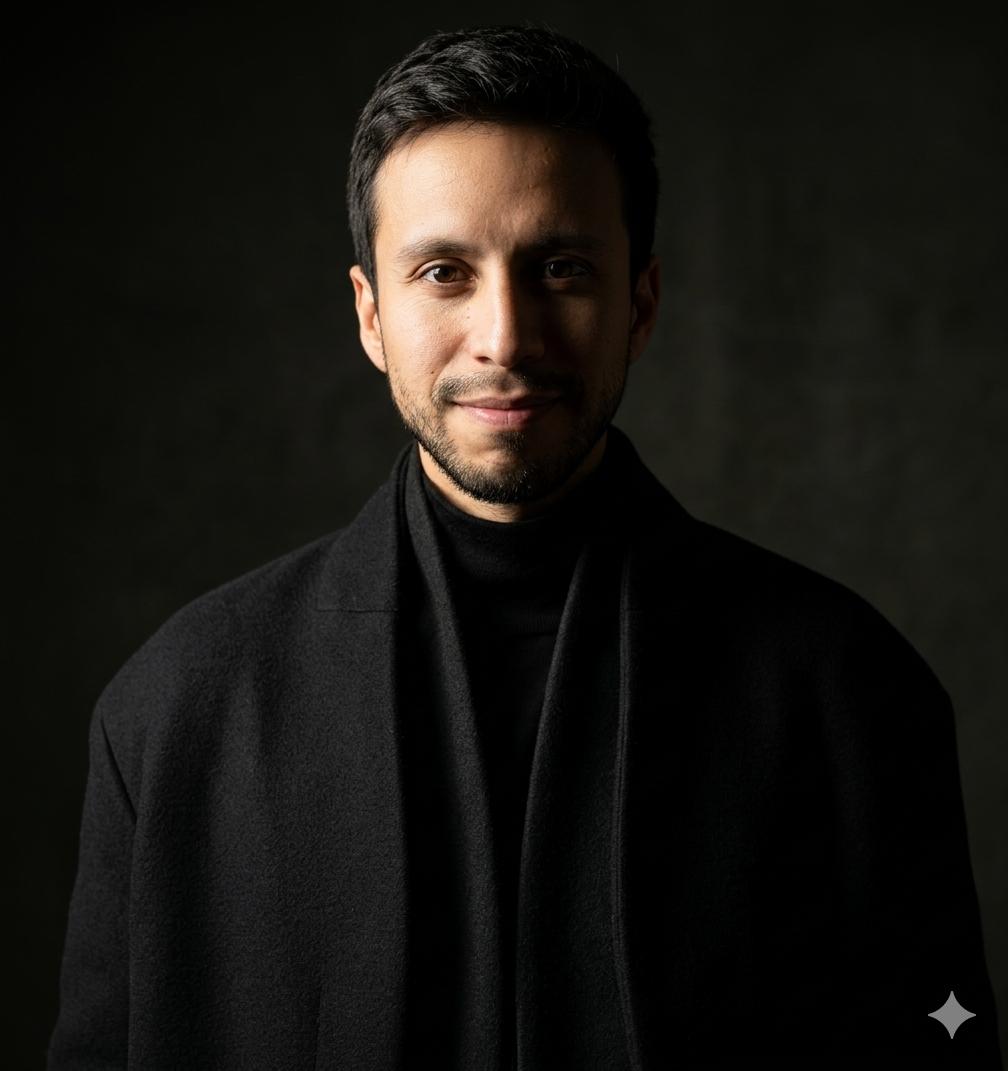
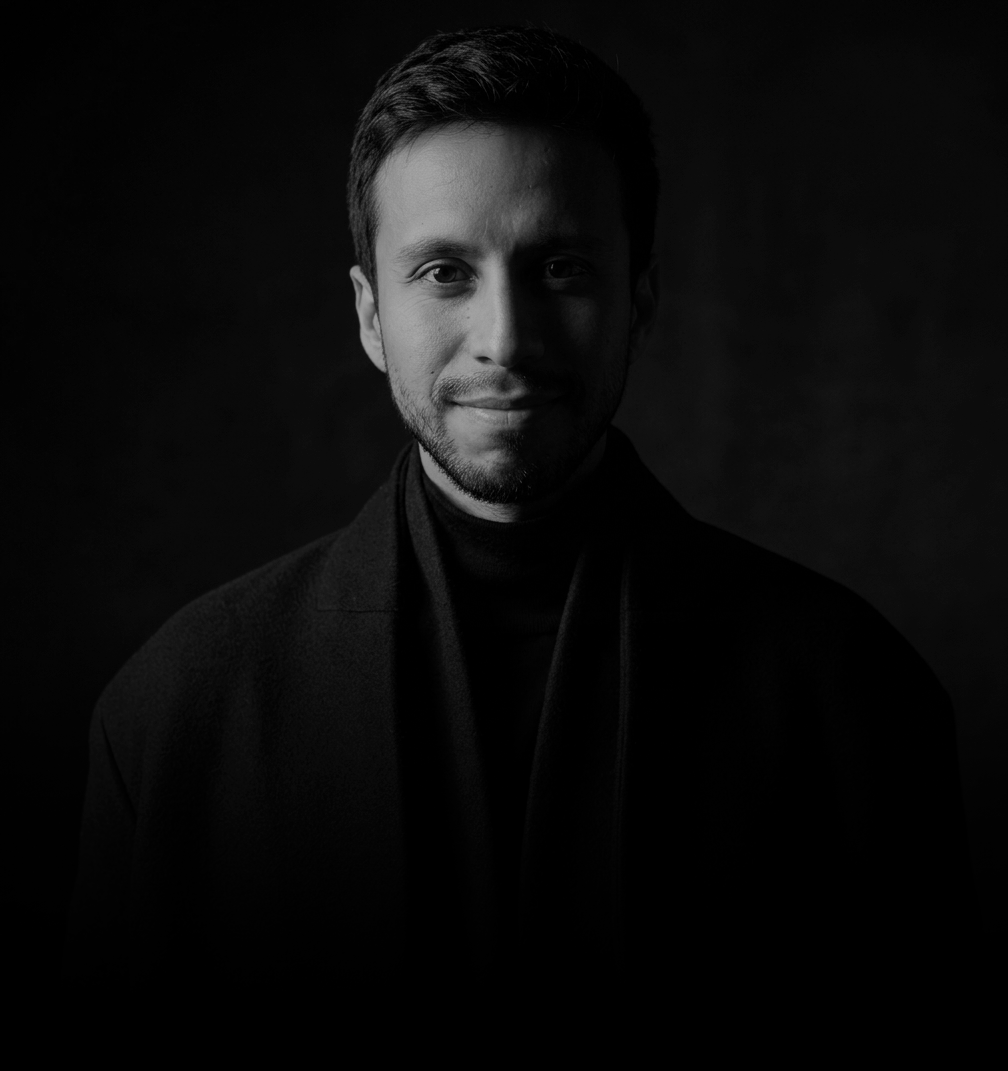
Add hero photo, fix social links, and update graphic assets
- About: add julian.png to hero section (hidden, ready to toggle), with radial mask effect
- SiteHeader: wire LinkedIn and Behance links to correct profile URLs, open in new tab
- SlotCta: add target and rel prop support for anchor tags
- About: fix line-break in bio copy using non-breaking hyphen and non-breaking space
- Graphic assets: update julian.png and wintercircus intro image

diff --git a/src/app/pages/About.tsx b/src/app/pages/About.tsx
@@ -7,6 +7,7 @@ import { SiteHeader } from "../components/SiteHeader";
 import { SplitLines } from "../components/SplitLines";
 import { SiteFooter } from "../components/SiteFooter";
 import { projects } from "../data/projects";
+import julianPhoto from "../../../graphic-assets/about/julian.png";
 import logoGoogle from "../../../graphic-assets/about/logos/google.svg";
 import logoAndroid from "../../../graphic-assets/about/logos/android.svg";
 import logoUber from "../../../graphic-assets/about/logos/uber.svg";
@@ -195,9 +196,23 @@ export default function About() {
       <SiteHeader variant="dynamic" isDarkLogo={false} isDarkText={false} isDarkMenu={false} isDarkLocation={false} onLogoClick={handleLogoClick} />
 
       {/* Name */}
-      <div className="px-4 sm:px-[120px] flex flex-col sm:flex-row sm:gap-[80px] justify-end sm:items-end" style={{ height: 600 }}>
-        <div className="hidden sm:block sm:flex-1" />
-        <div className="sm:flex-1 pb-[40px]">
+      <div className="px-4 sm:px-[120px] flex flex-col sm:flex-row sm:gap-[80px] justify-end sm:items-end relative" style={{ height: 600 }}>
+        <img
+          src={julianPhoto}
+          alt="Julián Patiño"
+          className="absolute object-cover object-top pointer-events-none select-none hidden"
+          style={{
+            top: "40px",
+            left: "50%",
+            transform: "translateX(-50%)",
+            height: "220%",
+            width: "auto",
+            maskImage: "radial-gradient(ellipse 55% 80% at 50% 15%, black 20%, transparent 72%)",
+            WebkitMaskImage: "radial-gradient(ellipse 55% 80% at 50% 15%, black 20%, transparent 72%)",
+          }}
+        />
+        <div className="hidden sm:block sm:flex-1 relative z-10" />
+        <div className="sm:flex-1 pb-[40px] relative z-10">
           <HeroReveal lines={["JULIÁN", "PATIÑO", "OSSA"]} delay={0.1} className="font-['Avantt',sans-serif] font-bold text-[56px] leading-[0.9] text-white uppercase" />
         </div>
       </div>
@@ -268,9 +283,23 @@ export default function About() {
       <SiteHeader variant="dynamic" isDarkLogo={false} isDarkText={false} isDarkMenu={false} isDarkLocation={false} onLogoClick={handleLogoClick} />
 
       {/* Name — 800px hero, vertically centered */}
-      <div className="flex items-center" style={{ height: 600, paddingLeft: 256, paddingRight: 256, gap: "clamp(80px, calc((100vw - 1024px) / (1280 - 1024) * (240 - 80) + 80px), 240px)" }}>
-        <div className="w-[333px]" />
-        <div className="w-[444px]">
+      <div className="flex items-center relative" style={{ height: 600, paddingLeft: 256, paddingRight: 256, gap: "clamp(80px, calc((100vw - 1024px) / (1280 - 1024) * (240 - 80) + 80px), 240px)" }}>
+        <img
+          src={julianPhoto}
+          alt="Julián Patiño"
+          className="absolute object-cover object-top pointer-events-none select-none hidden"
+          style={{
+            top: "40px",
+            left: "50%",
+            transform: "translateX(-50%)",
+            height: "220%",
+            width: "auto",
+            maskImage: "radial-gradient(ellipse 55% 80% at 50% 15%, black 20%, transparent 72%)",
+            WebkitMaskImage: "radial-gradient(ellipse 55% 80% at 50% 15%, black 20%, transparent 72%)",
+          }}
+        />
+        <div className="w-[333px] relative z-10" />
+        <div className="w-[444px] relative z-10">
           <HeroReveal lines={["JULIÁN", "PATIÑO", "OSSA"]} delay={0.1} className="font-['Avantt',sans-serif] font-bold text-[64px] leading-[0.86] text-white uppercase" />
         </div>
       </div>
@@ -289,7 +318,7 @@ export default function About() {
           <div className="flex flex-col gap-[24px] w-[444px] font-['Avantt',sans-serif] text-[#eaeaea] pt-[28px]">
             <HeroReveal lines={["SOFTWARE &", "EXPERIENCE", "DESIGNER"]} delay={0.42} className="font-['Avantt',sans-serif] font-bold text-[40px] leading-[1.0] text-white uppercase" />
             <div className="flex flex-col gap-4 font-normal text-[12px] leading-[1.6] tracking-[-0.12px]">
-              <SplitLines scroller={scrollRef} animationDelay={0} text="Over the course of my career, I’ve worked on a wide range of projects — from early-stage concept exploration to fully designed, ready-to-ship products." />
+              <SplitLines scroller={scrollRef} animationDelay={0} text={"Over the course of my career, I’ve worked on a wide range of projects — from early‑stage concept exploration to fully designed, ready-to-ship products."} />
               <SplitLines scroller={scrollRef} animationDelay={0.9} text="I’ve collaborated with global agencies and startups across UX and product design initiatives, helping shape strategies and build thoughtful, scalable experiences. Throughout these engagements, I’ve been involved across the full product lifecycle, working closely with cross-functional teams from discovery and definition to design and delivery." />
               <SplitLines scroller={scrollRef} animationDelay={2.0} text="These are some key principles I always look for when designing:" />
               <ul ref={bioListRef} className="flex flex-col gap-1">

diff --git a/src/app/components/SlotCta.tsx b/src/app/components/SlotCta.tsx
@@ -6,13 +6,15 @@ interface SlotCtaProps {
   /** Wrapping element — defaults to a plain span */
   as?: "span" | "a";
   href?: string;
+  target?: string;
+  rel?: string;
   className?: string;
   style?: React.CSSProperties;
   onClick?: () => void;
 }
 
 /** Whole-word bottom→top reveal on hover. Reverses smoothly on leave. */
-export function SlotCta({ text, as: Tag = "span", href, className = "", style, onClick }: SlotCtaProps) {
+export function SlotCta({ text, as: Tag = "span", href, target, rel, className = "", style, onClick }: SlotCtaProps) {
   const reelRef = useRef<HTMLSpanElement>(null);
   const tlRef   = useRef<gsap.core.Timeline | null>(null);
 
@@ -33,7 +35,7 @@ export function SlotCta({ text, as: Tag = "span", href, className = "", style, o
     onMouseEnter: () => tlRef.current?.play(),
     onMouseLeave: () => tlRef.current?.reverse(),
     onClick,
-    ...(Tag === "a" ? { href } : {}),
+    ...(Tag === "a" ? { href, target, rel } : {}),
   };
 
   return (

diff --git a/src/app/components/SiteHeader.tsx b/src/app/components/SiteHeader.tsx
@@ -102,10 +102,10 @@ export function SiteHeader(props: SiteHeaderProps) {
         <p className="mb-0" data-name="options-label">Social:</p>
         <div className="flex gap-[16px]">
           <span data-name="header-link-in" style={{ display: "inline-block" }}>
-            <SlotCta text="IN" as="a" href="https://www.linkedin.com" />
+            <SlotCta text="IN" as="a" href="https://www.linkedin.com/in/jupaoss/" target="_blank" rel="noopener noreferrer" />
           </span>
           <span data-name="header-link-be" style={{ display: "inline-block" }}>
-            <SlotCta text="BE" as="a" href="https://www.behance.net" />
+            <SlotCta text="BE" as="a" href="https://www.behance.net/jupaoss" target="_blank" rel="noopener noreferrer" />
           </span>
         </div>
       </div>
